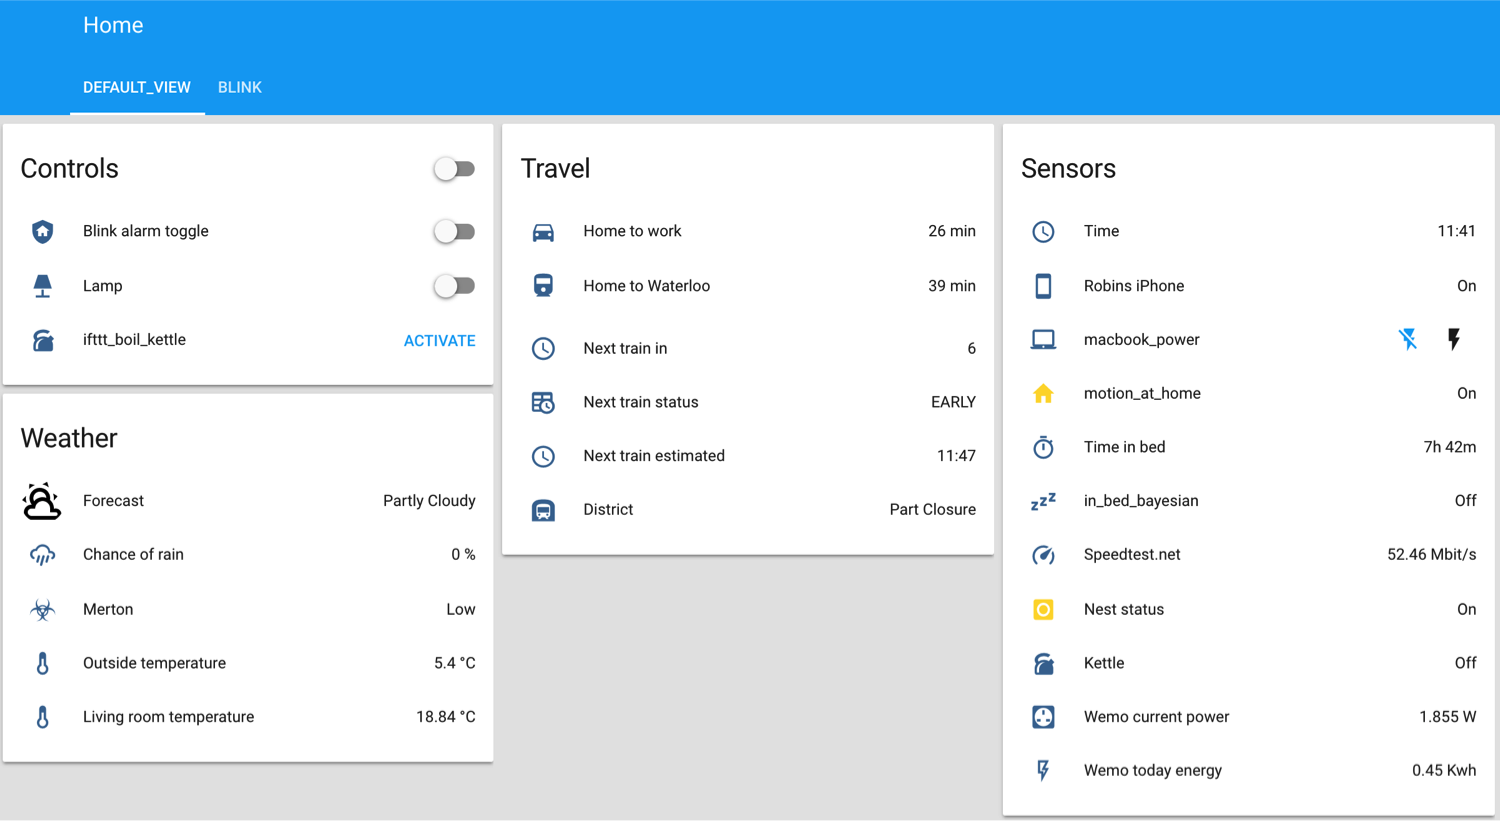
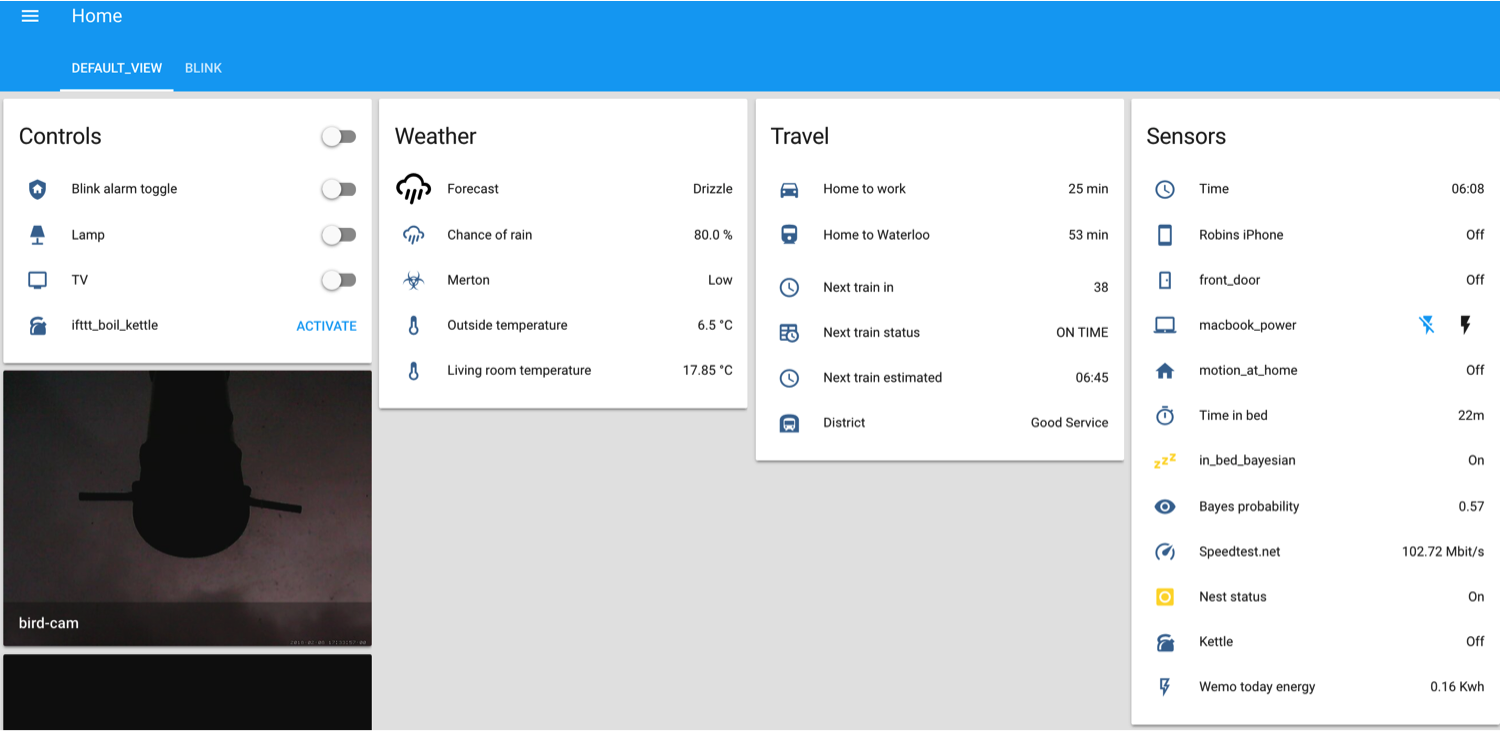
Update

diff --git a/README.md b/README.md
@@ -3,6 +3,9 @@ My [home-assistant](https://home-assistant.io/) config on 4 Feb 2018 with HA 0.6
 
 <img src="https://github.com/robmarkcole/robins-homeassistant-config/blob/master/images/front-end.png">
 
+#### HASSIO
+I run a hassio instance [as described here](https://github.com/robmarkcole/robins-hassio-config). This has a USB camera connected, and it is the feed and motion triggered images from that camera that I am displaying on this instance via the [generic](https://home-assistant.io/components/camera.generic/) camera component.
+
 #### Hue sensors
 I have Philips Hue remotes and motion sensors. I wrote a custom component to integrate them [here](https://github.com/robmarkcole/Hue-sensors-HASS).
 
@@ -10,7 +13,7 @@ I have Philips Hue remotes and motion sensors. I wrote a custom component to int
 My leak detector is a DIY sensor using micropython, with a writeup on [Hackster](https://www.hackster.io/robin-cole/micropython-leak-detector-with-adafruit-and-home-assistant-a2fa9e).
 
 #### BME680 Temperature, humidity and air quality sensors
-I branched a [Pimoroni library](https://github.com/pimoroni/bme680) for the BME680 to publish data over MQTT, repo [here](https://github.com/robmarkcole/bme680-mqtt-micropython).
+CURRENTLY NOT USING: I branched a [Pimoroni library](https://github.com/pimoroni/bme680) for the BME680 to publish data over MQTT, repo [here](https://github.com/robmarkcole/bme680-mqtt-micropython).
 
 #### Automation to boil my kettle in the morning
 I own an [Appkettle](https://www.myappkettle.com/) which is integrated with HA via IFTTT. Write up on [Hackster](https://www.hackster.io/robin-cole/boil-my-kettle-when-i-get-out-of-bed-in-the-morning-10e7de).
@@ -33,11 +36,8 @@ I am a big fan of using python_scripts over long YAML automations. I have a [ded
 #### Google Cloud SQL recorder
 I use a Google cloud SQL database as a recorder, as [described here](https://github.com/robmarkcole/HASS-Google-Cloud-SQL).
 
-#### USB camera with Motion on Hassio
-On another HA instance, I have a motion triggered USB camera using [this HASSIO addon](https://github.com/HerrHofrat/hassio-addons/tree/master/motion).
-
 #### Bayesian 'in bed' sensor
-My own bayesian 'in bed bayesian sensor' is working nicely now. I found that the 'sun below horizon' input wasn't particularly useful, since in the UK at this time of year the sun is setting before 5pm.! Instead I'm using a template sensor which is ON at 'late night'.
+My own bayesian 'in bed bayesian sensor' is working nicely after a lot of experimentation. I found that the 'sun below horizon' input wasn't particularly useful, since in the UK at this time of year the sun is setting before 5pm.! Instead I'm using a template sensor which is ON at 'late night'.
 
 ```yaml
 - platform: template
@@ -70,21 +70,24 @@ Finally the bayesian sensor is:
 - platform: 'bayesian'
   name: 'in_bed_bayesian'
   prior: 0.25
-  probability_threshold: 0.5
   observations:
-    - entity_id: 'group.all_lights'
-      prob_given_true: 0.4
-      platform: 'state'
-      to_state: 'off'
     - entity_id: 'input_boolean.house_idle'
       prob_given_true: 0.6
       platform: 'state'
       to_state: 'on'
     - entity_id: 'binary_sensor.late_night_sensor'
-      prob_given_true: 0.7
+      prob_given_true: 0.8
+      platform: 'state'
+      to_state: 'on'
+    - entity_id: 'binary_sensor.motion_at_home'
+      prob_given_true: 0.1
       platform: 'state'
       to_state: 'on'
     - entity_id: 'switch.macbook_power'
+      prob_given_true: 0.1
+      platform: 'state'
+      to_state: 'on'
+    - entity_id: 'switch.tv'
       prob_given_true: 0.1
       platform: 'state'
       to_state: 'on'
